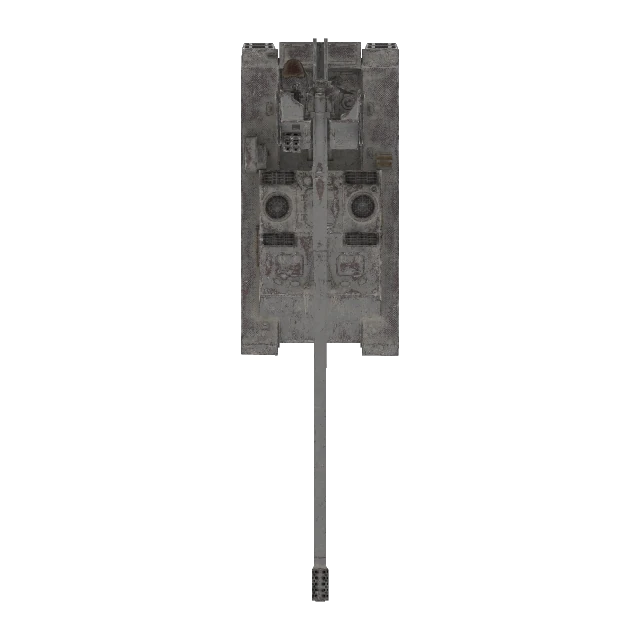
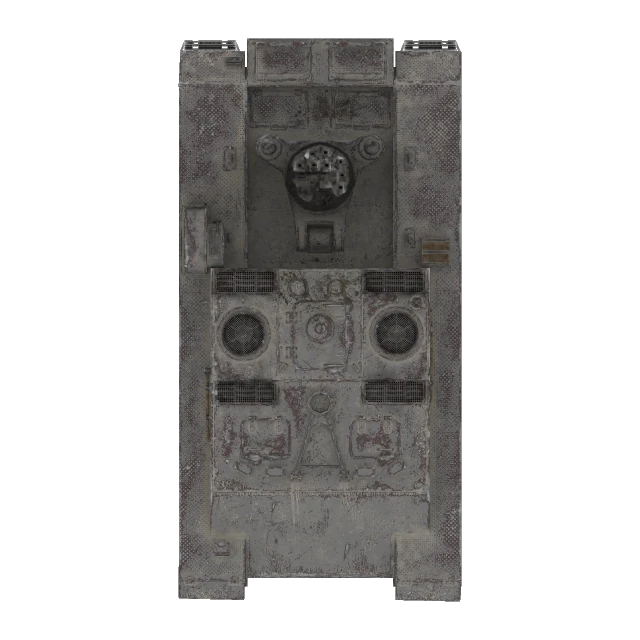
fix(vehicle-models): grille-15 为 limited-traverse 炮塔 TD（BlitzKit yaw ±65° 权威数据）→ turreted
- mapping 修正：grille-15 turretless → turreted（用户确认：带炮塔 TD，炮塔有射界限制；
  BlitzKit models.pb turret yaw ±65° 为 source of truth——yaw 有界仍属 turreted visual layer，
  同 minotauro/xm66f ±45°、maus yaw null=全旋转、ho-ri ±7°=casemate turretless）
- grille-15 重新 bake：hull.webp + turret.webp + turretPivot (160.10, 220.36)
- inventory/CHANGELOG 同步修正；validator 8 辆全 PASS；487 测试全绿

diff --git a/frontend/src/vehicle-models/mapping.js b/frontend/src/vehicle-models/mapping.js
@@ -85,7 +85,7 @@ export const MODEL_DEFINITIONS = Object.freeze({
   "fv4005": Object.freeze({ kind: 'turreted', tankIds: Object.freeze([18001]) }),
   "lion": Object.freeze({ kind: 'turreted', tankIds: Object.freeze([18049]) }),
   "t95e6": Object.freeze({ kind: 'turreted', tankIds: Object.freeze([18977]) }),
-  "grille-15": Object.freeze({ kind: 'turretless', tankIds: Object.freeze([19217]) }), // 2026-08-19 修正：casemate 固定战斗室（用户 inventory review 判定，与 ho-ri 同 contract）
+  "grille-15": Object.freeze({ kind: 'turreted', tankIds: Object.freeze([19217]) }), // limited-traverse 炮塔 TD（BlitzKit models.pb turret yaw ±65°；yaw 有界仍属 turreted visual layer）
   "super-conqueror": Object.freeze({ kind: 'turreted', tankIds: Object.freeze([19281]) }),
   "vickers-light": Object.freeze({ kind: 'turreted', tankIds: Object.freeze([19537]) }),
   "nc-70-blyskawica": Object.freeze({ kind: 'turreted', confirmPending: true, tankIds: Object.freeze([19585]) }),

diff --git a/docs/assets/tier-x-models/tier-x-inventory.md b/docs/assets/tier-x-models/tier-x-inventory.md
@@ -75,7 +75,7 @@
 | fv4005 | turreted | — | 18001 | FV4005 | Tank destroyer | UK | 标准可旋转炮塔（HT/MT/LT，结构知识核验） | [icon](https://api.blitzkit.app/tanks/18001/icons/big.webp) · [page](https://blitzkit.app/tanks/fv4005) |
 | lion | turreted | — | 18049 | Lion | Medium tank | European | 标准可旋转炮塔（HT/MT/LT，结构知识核验） | [icon](https://api.blitzkit.app/tanks/18049/icons/big.webp) · [page](https://blitzkit.app/tanks/lion) |
 | t95e6 | turreted | — | 18977 | T95E6 | Heavy tank | USA | 标准可旋转炮塔（HT/MT/LT，结构知识核验） | [icon](https://api.blitzkit.app/tanks/18977/icons/big.webp) · [page](https://blitzkit.app/tanks/t95e6) |
-| grille-15 | turretless | — | 19217 | Grille 15 | Tank destroyer | Germany | 2026-08-19 修正：casemate 固定战斗室（用户 inventory review：与 ho-ri 同 turretless contract；原误标 turreted） | [icon](https://api.blitzkit.app/tanks/19217/icons/big.webp) · [page](https://blitzkit.app/tanks/grille-15) |
+| grille-15 | turreted | — | 19217 | Grille 15 | Tank destroyer | Germany | limited-traverse 炮塔（BlitzKit models.pb turret yaw ±65° 权威数据；yaw 有界仍属 turreted visual layer，同 minotauro/xm66f） | [icon](https://api.blitzkit.app/tanks/19217/icons/big.webp) · [page](https://blitzkit.app/tanks/grille-15) |
 | super-conqueror | turreted | — | 19281 | Super Conqueror | Heavy tank | UK | 标准可旋转炮塔（HT/MT/LT，结构知识核验） | [icon](https://api.blitzkit.app/tanks/19281/icons/big.webp) · [page](https://blitzkit.app/tanks/super-conqueror) |
 | vickers-light | turreted | — | 19537 | Vickers Light | Light tank | UK | 标准可旋转炮塔（HT/MT/LT，结构知识核验） | [icon](https://api.blitzkit.app/tanks/19537/icons/big.webp) · [page](https://blitzkit.app/tanks/vickers-light) |
 | nc-70-blyskawica | turreted | ⚠ 待确认 | 19585 | NC 70 Błyskawica | Tank destroyer | European | 官方文章未明确炮塔结构 → 视觉确认待定（confirmPending） | [icon](https://api.blitzkit.app/tanks/19585/icons/big.webp) · [page](https://blitzkit.app/tanks/nc-70-b-yskawica) |

diff --git a/docs/CHANGELOG.md b/docs/CHANGELOG.md
@@ -208,9 +208,10 @@
       decodePb/mapGet/proto 共享到 extractor-lib（extractor CLI 与 bake CLI 复用）；
     - **turreted contract**：hull.webp（hull+tracks）+ turret.webp（selected turret+mantlet+gun）
       独立 z-buffer/bake；turretPivot 由 models.pb turretOrigin 投影（与 extractor 同公式）；
-    - **turretless contract**：grille-15/ho-ri 单 hull.webp（gun/mantlet/casemate 全部 bake 进
-      hull），无 turret layer/pivot；mapping 修正 grille-15 turreted→turretless（用户 inventory
-      review：casemate 固定战斗室）；
+    - **turretless contract**：ho-ri 单 hull.webp（casemate，gun 全部 bake 进 hull），无 turret
+      layer/pivot；grille-15 为 limited-traverse 炮塔 TD（BlitzKit models.pb turret yaw ±65°
+      权威数据）→ turreted visual layer（同 minotauro/xm66f ±45°）；kind 判定以 BlitzKit 数据
+      为 source of truth（yaw 无限制/null=全旋转、±45°~±65°=limited turret、±7°=casemate）；
     - **PBR 检查**：metallic/roughness 纹理存在但顶视中性 bake 无 specular → 报告后不加入（§5）；
       输出保持 0.75 去色 + 保留纹理结构（grille/panel/vent/AO/relief）；
     - **正式资产契约迁移**：assets/<modelKey>/{hull,turret}.webp + metadata.json + bake-report.json
